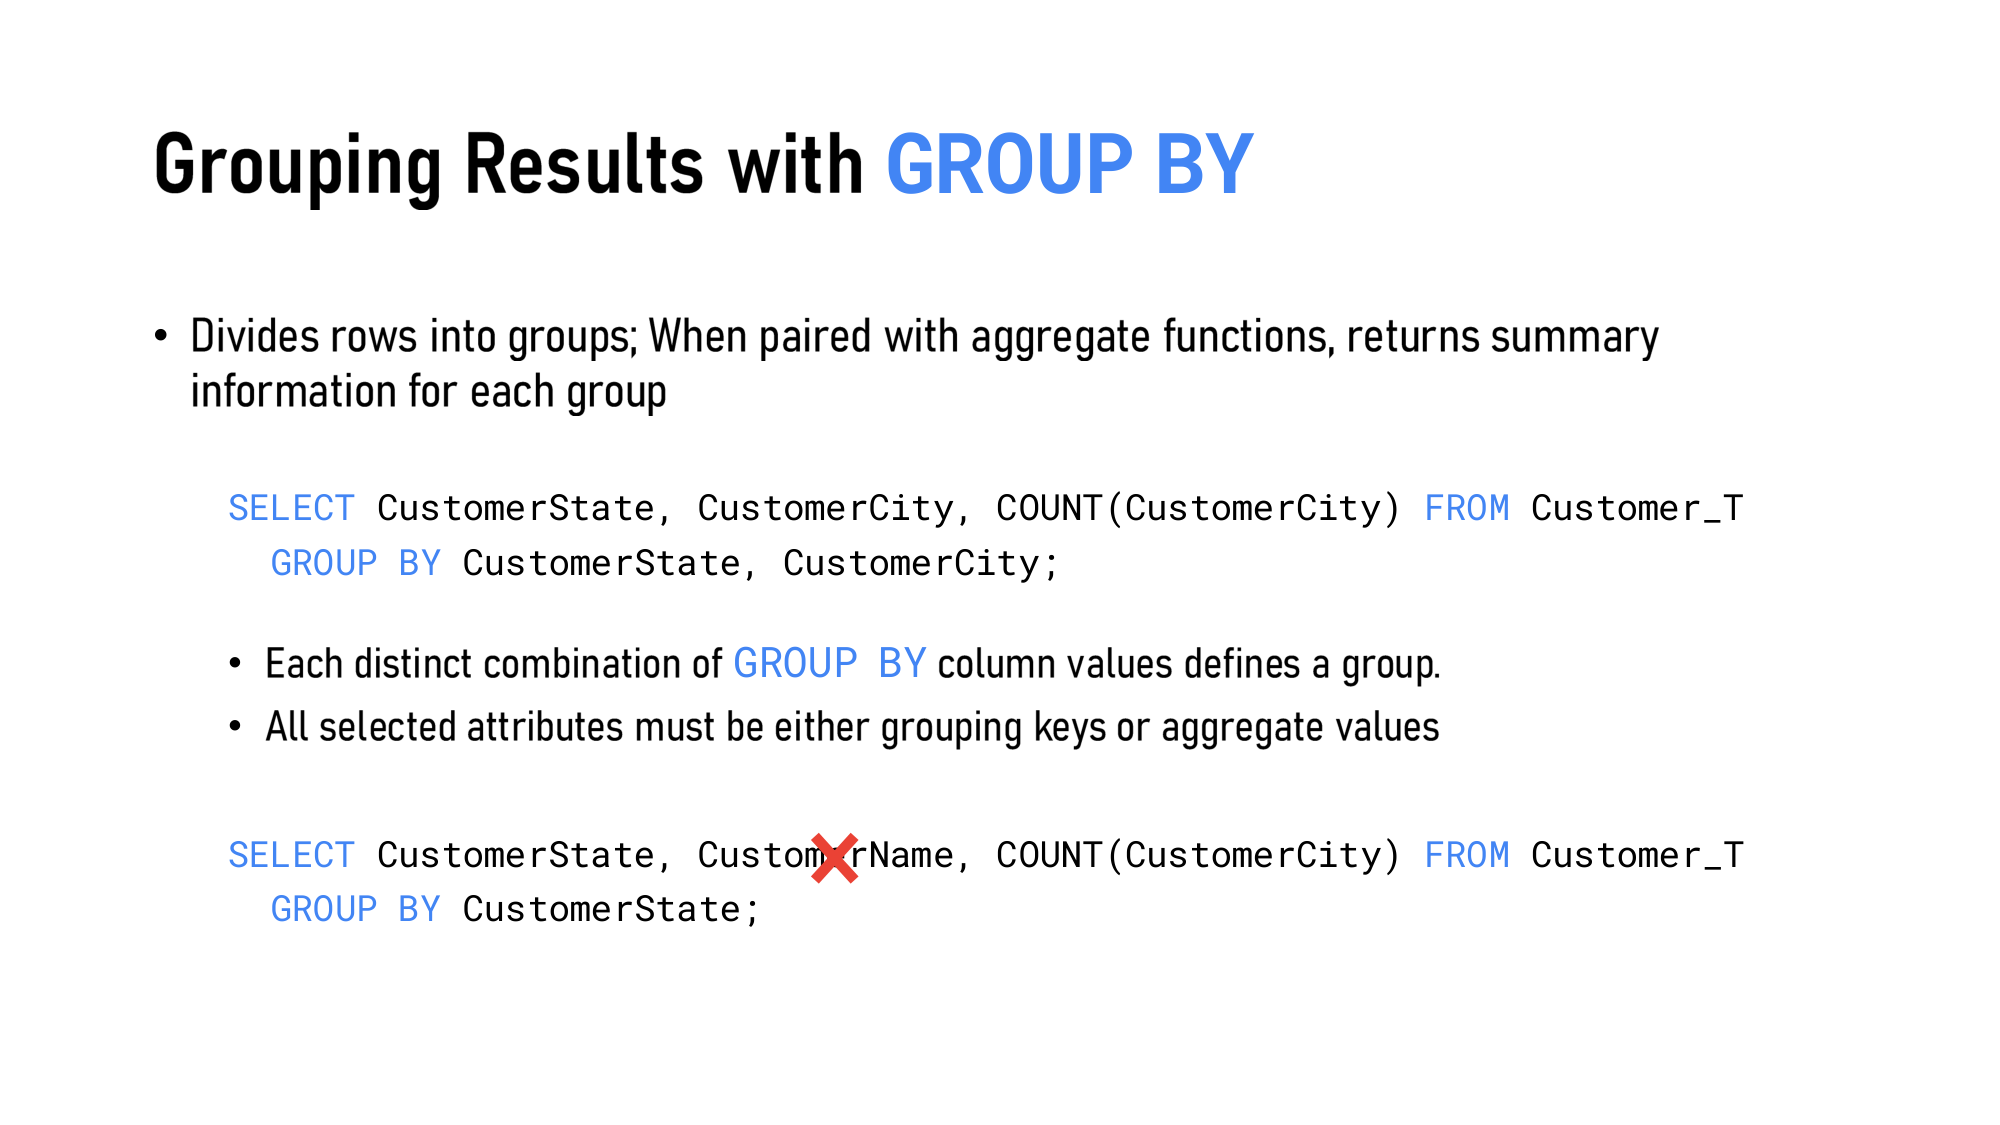
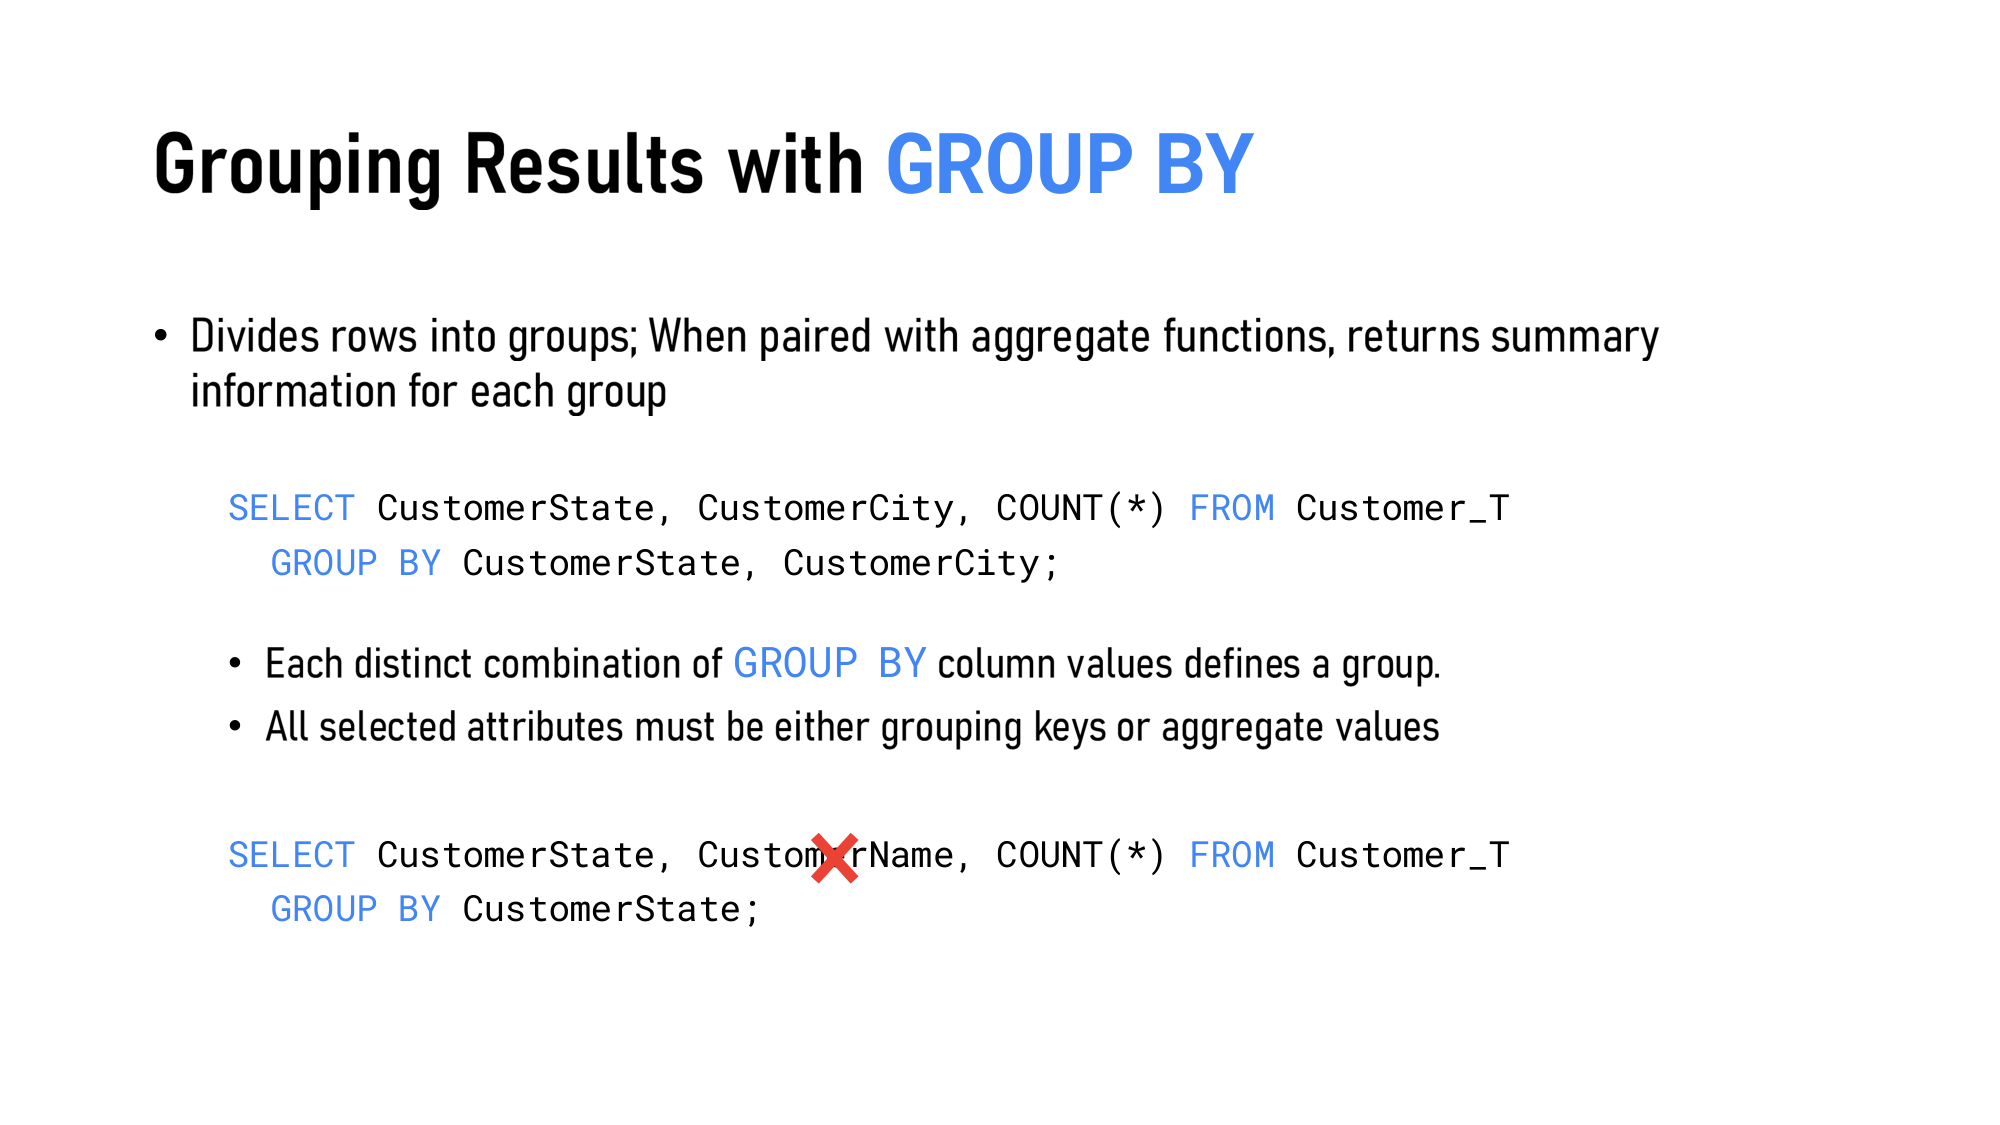
ISOM 5260 week 5: revise for updated lecture slides (Oct 3)
DCL reorganised (Users vs. Roles, REVOKE p.23), DATE literal, RANK,
COUNT(*) examples, single-row INSERT; refreshed slide images.

Changed region(s): [[0.558, 0.7467, 0.868, 0.7778], [0.558, 0.4356, 0.868, 0.4667]]

diff --git a/content/2026-fall-1/isom-5260/lectures/week-05/README.md b/content/2026-fall-1/isom-5260/lectures/week-05/README.md
@@ -22,6 +22,15 @@ tags: [SQL, DDL, DML, DCL, SELECT, GROUP BY, JOIN, Oracle]
 >
 > 课件使用的是 **Oracle** 语法（`VARCHAR2`、`SYSDATE`、表别名不能加 `AS`），和 lab 里的 SQL Developer 一致。
 
+> **📌 课件更新（10 月 3 日版）**
+>
+> 老师更新了 Lecture 5 的课件，本笔记已按新版修改：
+>
+> - **DCL 重排**：新增 p.22「Users vs. Roles」，REVOKE 移到 p.23，删掉了旧版的「Roles & Best Practices」页（见 5.2–5.4）
+> - p.29 日期比较改用 `DATE '2026-09-30'`；p.36 分析函数从 `TOP` 改成 `RANK`
+> - p.37 的规则改成更直接的「不能混用聚合和非聚合列」；p.41–42 的例子统一用 `COUNT(*)`
+> - p.52 不列列名的 INSERT 只保留一行 VALUES
+
 ---
 
 ## 0. 核心地图（先建立整体框架）
@@ -277,15 +286,51 @@ DROP TABLE Customer_T;                                                       -- 
 
 DCL 的目的：**controls who can do what on database objects**。
 
-### 5.2 GRANT 与 REVOKE（p.21–22）
+### 5.2 GRANT：授予权限（p.21）
 
 ```sql
-GRANT SELECT ON Customer_T TO sales_user;                         -- 给用户
-GRANT SELECT, INSERT, UPDATE ON Order_T TO order_clerk_role;      -- 给角色
-GRANT SELECT ON Customer_T TO manager WITH GRANT OPTION;          -- 允许他再转授给别人
+GRANT SELECT ON Customer_T TO sales_user;                         -- 给用户（user name）
+GRANT SELECT, INSERT, UPDATE ON Order_T TO order_clerk_role;      -- 给角色（role name）
+GRANT SELECT ON Customer_T TO manager WITH GRANT OPTION;          -- 允许 manager 再转授给别人
+```
 
-REVOKE SELECT ON Customer_T FROM sales_user;
-REVOKE INSERT, UPDATE ON Order_T FROM order_clerk_role;
+> **⚠ 踩坑提醒**
+>
+> p.21 的 Note：**`WITH GRANT OPTION` 不能用于把对象权限授给角色**。只能授给具体的用户。
+
+### 5.3 Users vs. Roles（p.22）
+
+![用户是账号，角色是一组权限的集合](images/page_22.png)
+
+*用户是账号，角色是一组权限的集合（Slide 22）*
+
+| 概念          | 课件原文                                                                              | 例子                            |
+| ----------- | --------------------------------------------------------------------------------- | ----------------------------- |
+| **User 用户** | A user is simply a **database account**                                           | sales\_user、manager、alice、bob |
+| **Role 角色** | A role is a **named collection of privileges** that can be assigned to many users | order\_clerk\_role            |
+
+**Best practice（课件标红）**：先建角色 → 把权限授给角色 → 再把角色分配给多个用户。
+
+```sql
+CREATE ROLE order_clerk_role;                                  -- ① 建一个空角色
+GRANT SELECT, INSERT, UPDATE ON Order_T TO order_clerk_role;   -- ② 权限给角色
+GRANT order_clerk_role TO alice, bob, carol;                   -- ③ 角色给人
+```
+
+> **💡 小白理解**
+>
+> 角色就像「岗位说明书」：店员这个岗位能查、能录、能改订单。新来一个店员，只要把角色给他，不用一条条授权；岗位要多一项权限，改角色一次，所有店员一起生效。
+
+### 5.4 REVOKE：收回权限（p.23）
+
+![REVOKE 的三种用法和两条规则](images/page_23.png)
+
+*REVOKE 的三种用法和两条规则（Slide 23）*
+
+```sql
+REVOKE SELECT ON Customer_T FROM sales_user;             -- 从用户收回
+REVOKE INSERT, UPDATE ON Order_T FROM order_clerk_role;  -- 从角色收回
+REVOKE order_clerk_role FROM alice;                      -- 从用户身上收回整个角色
 ```
 
 > **🎯 考点**
@@ -293,30 +338,20 @@ REVOKE INSERT, UPDATE ON Order_T FROM order_clerk_role;
 > 课件里三条要背的规则（全是选择题素材）：
 >
 > 1. **`WITH GRANT OPTION` 不能用于把对象权限授给角色**（p.21 Note）
-> 2. 如果权限是 `WITH GRANT OPTION` 授出的，**撤销它时，这个用户转授给别人的权限也会被连带撤销**（cascade，p.22）
-> 3. **从用户身上撤销一个角色 = 撤销这个角色带来的所有权限**（p.22）
+> 2. 如果权限是 `WITH GRANT OPTION` 授出的，**撤销它时，这个用户转授给别人的权限也会被连带撤销**（cascade，p.23）
+> 3. **从用户身上撤销一个角色 = 撤销这个角色带来的所有权限**（p.23）
 >
 > 注意介词：`GRANT … TO`，`REVOKE … FROM`。
 
-### 5.3 角色与最佳实践（p.23）
-
-```sql
-GRANT CREATE ROLE TO manager;                              -- 系统权限：允许 manager 建角色
-CREATE ROLE order_clerk_role;                              -- 建一个空角色
-GRANT SELECT, INSERT, UPDATE ON Order_T TO order_clerk_role;   -- 权限先给角色
-GRANT order_clerk_role TO alice, bob;                      -- 再把角色给人
-REVOKE order_clerk_role FROM alice;                        -- alice 换岗，收回角色
-```
-
-| 最佳实践                                                               | 中文            | 为什么                                 |
-| ------------------------------------------------------------------ | ------------- | ----------------------------------- |
-| Principle of **Least Privilege**                                   | 最小权限原则        | 只给完成工作所必需的权限，出事时损失最小                |
-| Prefer **roles** over granting privileges directly to users        | 优先通过角色授权      | 100 个店员共用一个角色：改一次角色，全员生效；有人离职只需收回角色 |
-| **Review** privileges regularly, revoke promptly when roles change | 定期审查，岗位变动及时收回 | 防止「权限蔓延」（换了三个岗位，手上攒了三份权限）           |
-
-> **💼 业务视角**
+> **➕ 课外补充：权限管理的原则**
 >
-> 角色（role）就是把「岗位」和「人」解耦：权限跟着**岗位**走，人只是被分配到岗位上。这和 ISOM 5070 里讲的访问控制（RBAC、least privilege、定期 access review）是同一套思路，只是这里落到了 SQL 语句上。
+> 新版课件删掉了旧版 p.23 的「Roles & Best Practices」页，下面这些不再是课件原文，了解即可：
+>
+> - **Principle of Least Privilege 最小权限原则**：只给完成工作所必需的权限。
+> - **定期审查权限**，岗位变动时及时收回，防止换了几个岗位后手上攒了几份权限。
+> - 建角色本身也需要系统权限：`GRANT CREATE ROLE TO manager;`
+>
+> 这和 ISOM 5070 讲的访问控制（RBAC、least privilege、access review）是同一套思路。
 
 下面这个实验按课件的语句一步步执行，看权限矩阵怎么变。建议按「按课件顺序走下一步」走一遍，特别留意 **第 4 步（sales\_user 没有 GRANT OPTION 却想转授）**、**第 7 步（给角色加 WITH GRANT OPTION）** 和 **第 9 步（撤销 manager 时 bob 被连带撤销）**：
 
@@ -331,22 +366,23 @@ REVOKE order_clerk_role FROM alice;                        -- alice 换岗，收
 | 5  | owner       | `CREATE ROLE order_clerk_role;`                                  | ✓ | 建好一个空角色：它本身还没有任何权限，要先把权限授给角色，再把角色授给用户。                                             |
 | 6  | owner       | `GRANT SELECT, INSERT, UPDATE ON Order_T TO order_clerk_role;`   | ✓ | 表的所有者把 SELECT, INSERT, UPDATE ON Order\_T 授给 order\_clerk\_role。                   |
 | 7  | owner       | `GRANT SELECT ON Order_T TO order_clerk_role WITH GRANT OPTION;` | ✗ | ORA-01926：不能把 WITH GRANT OPTION 授给角色（p.21 的 Note）。                                 |
-| 8  | owner       | `GRANT order_clerk_role TO alice, bob;`                          | ✓ | alice、bob 获得了角色里的全部权限——以后改角色的权限，所有成员一起变。                                           |
+| 8  | owner       | `GRANT order_clerk_role TO alice, bob, carol;`                   | ✓ | alice、bob、carol 获得了角色里的全部权限——以后改角色的权限，所有成员一起变。                                     |
 | 9  | owner       | `REVOKE SELECT ON Customer_T FROM manager;`                      | ✓ | 撤销 manager 的 SELECT ON Customer\_T。连锁撤销：bob 的 SELECT ON Customer\_T（由 manager 转授）。 |
 | 10 | owner       | `REVOKE order_clerk_role FROM alice;`                            | ✓ | alice 失去角色带来的所有权限（直接授给该用户的权限不受影响）。                                                 |
 | 11 | owner       | `REVOKE INSERT, UPDATE ON Order_T FROM order_clerk_role;`        | ✓ | 撤销 order\_clerk\_role 的 INSERT, UPDATE ON Order\_T。                                |
 
 **最终权限矩阵**
 
-| 用户 / 角色                   | SELECT ON Customer\_T | SELECT ON Order\_T | INSERT ON Order\_T | UPDATE ON Order\_T |
-| ------------------------- | --------------------- | ------------------ | ------------------ | ------------------ |
-| manager                   | —                     | —                  | —                  | —                  |
-| sales\_user               | ✓                     | —                  | —                  | —                  |
-| alice                     | —                     | —                  | —                  | —                  |
-| bob（+ order\_clerk\_role） | —                     | ✓（经由角色）            | —                  | —                  |
-| order\_clerk\_role        | —                     | ✓                  | —                  | —                  |
+| 用户 / 角色                     | SELECT ON Customer\_T | SELECT ON Order\_T | INSERT ON Order\_T | UPDATE ON Order\_T |
+| --------------------------- | --------------------- | ------------------ | ------------------ | ------------------ |
+| manager                     | —                     | —                  | —                  | —                  |
+| sales\_user                 | ✓                     | —                  | —                  | —                  |
+| alice                       | —                     | —                  | —                  | —                  |
+| bob（+ order\_clerk\_role）   | —                     | ✓（经由角色）            | —                  | —                  |
+| carol（+ order\_clerk\_role） | —                     | ✓（经由角色）            | —                  | —                  |
+| order\_clerk\_role          | —                     | ✓                  | —                  | —                  |
 
-### 5.4 🟢 查权限的数据字典视图（p.24）
+### 5.5 🟢 查权限的数据字典视图（p.24）
 
 | 视图               | 权限类别   | 范围   | 显示什么                   |
 | ---------------- | ------ | ---- | ---------------------- |
@@ -404,7 +440,7 @@ SELECT ProductDescription, ProductStandardPrice
 | `>=`、`<=`   | 大于等于、小于等于 |
 
 - 数字按大小比，**文本按字母顺序比**（一定用**单引号** `'Cherry'`），日期按先后比。
-- `WHERE OrderDate > '24-OCT-2018'`：Oracle 会把这个字符串按默认日期格式转换成日期再比较。
+- `WHERE OrderDate > DATE '2026-09-30'`（p.29）：`DATE 'YYYY-MM-DD'` 是标准的**日期字面量**，明确告诉 Oracle「这是一个日期」，按先后比较，不依赖数据库的默认日期格式。
 
 ### 6.4 🔴 LIKE 与通配符（p.30）
 
@@ -467,16 +503,22 @@ SELECT UPPER('product: ' || ProductID), ProductStandardPrice FROM Product_T;
 -- || 是 Oracle 的字符串拼接：'product: ' || 1 → 'product: 1'，UPPER 再变成 'PRODUCT: 1'
 ```
 
-| 类型      | 例子                                      |
-| ------- | --------------------------------------- |
-| 数学 / 聚合 | `MIN`、`MAX`、`COUNT`、`SUM`、`AVG`、`ROUND` |
-| 字符串     | `LOWER`（转小写）、`UPPER`（转大写）               |
-| 日期      | `NEXT_DAY`（下一个星期几）、`ADD_MONTHS`（加减若干个月） |
-| 分析      | `TOP`（前 n 名，例如年销售额前 5 的客户）              |
+| 类型      | 例子                                       |
+| ------- | ---------------------------------------- |
+| 数学 / 聚合 | `MIN`、`MAX`、`COUNT`、`SUM`、`AVG`、`ROUND`  |
+| 字符串     | `LOWER`（转小写）、`UPPER`（转大写）                |
+| 日期      | `NEXT_DAY`（下一个星期几）、`ADD_MONTHS`（加减若干个月）  |
+| 分析      | `RANK`（按 `OVER()` 里的 `ORDER BY` 给每一行排名次） |
 
-> **➕ 课外补充**
+> **➕ 课外补充：RANK 怎么用**
 >
-> 课件把 `TOP` 列为分析函数，但 `TOP n` 其实是 SQL Server 的写法；Oracle 12c 以后用 `FETCH FIRST 5 ROWS ONLY`，旧版用 `ROWNUM`。概念一样：取前 n 名。
+> ```sql
+> SELECT ProductDescription, ProductStandardPrice,
+>        RANK() OVER (ORDER BY ProductStandardPrice DESC) AS PriceRank
+>   FROM Product_T;
+> ```
+>
+> 结果是**每一行都保留**，多出一列名次：Dining Table 800 排 1，8-Drawer Desk 750 排 2……价格相同的并列同一名次，下一名会跳号（1, 2, 2, 4）。这是它和聚合函数的区别：聚合函数把多行压成一行，`RANK` 不减少行数。（旧版课件这一格写的是 `TOP`，新版改成了 `RANK`。）
 
 ### 6.8 🔴 聚合函数（Aggregate Functions，p.37–38）
 
@@ -491,7 +533,9 @@ SELECT ProductID, COUNT(*) FROM Product_T;  -- ❌ 报错
 
 > **🎯 考点：聚合函数和普通列不能混用**
 >
-> **SELECT 列表里不能同时出现聚合函数和没有聚合的普通列——除非那些普通列出现在 GROUP BY 里。**
+> **A SELECT list cannot mix aggregate functions and non-aggregated columns.**（p.37）SELECT 列表里不能同时出现聚合函数和没有聚合的普通列。
+>
+> 例外在 p.41：普通列如果是 **GROUP BY 的分组键**，就可以和聚合函数一起出现（见 6.11）。
 >
 > `SELECT ProductID, COUNT(*) FROM Product_T;` 为什么错？COUNT(\*) 把 8 行压成 1 个数，ProductID 却有 8 个值——结果只有一行，放哪个 ProductID？Oracle 报 `ORA-00937: not a single-group group function`。
 
@@ -535,15 +579,15 @@ SELECT CustomerName, CustomerState FROM Customer_T
 *GROUP BY：选出来的列必须是分组键或聚合值（课件用红叉标出了错误写法）（Slide 41）*
 
 ```sql
-SELECT CustomerState, CustomerCity, COUNT(CustomerCity) FROM Customer_T
+SELECT CustomerState, CustomerCity, COUNT(*) FROM Customer_T
  GROUP BY CustomerState, CustomerCity;            -- ✅ 每个 (州, 城市) 组合一组
 
-SELECT CustomerState, CustomerName, COUNT(CustomerCity) FROM Customer_T
+SELECT CustomerState, CustomerName, COUNT(*) FROM Customer_T
  GROUP BY CustomerState;                          -- ❌ CustomerName 既不是分组键也不是聚合值
 
-SELECT CustomerState, COUNT(CustomerState) FROM Customer_T
+SELECT CustomerState, COUNT(*) FROM Customer_T
  GROUP BY CustomerState
-HAVING COUNT(CustomerState) > 1;                  -- ✅ 只留客户数 > 1 的州：CA 2、FL 3、NJ 2
+HAVING COUNT(*) > 1;                              -- ✅ 只留客户数 > 1 的州：CA 2、FL 3、NJ 2
 ```
 
 | 规则                                                                               | 解释                                    |
@@ -917,15 +961,14 @@ VALUES (1, 175, 'End Table');
 
 -- 不列列名：必须按表定义的顺序给出所有列
 INSERT INTO Product_T VALUES
-  (1, 'End Table', 'Cherry', 175, 8),
-  (2, 'Coffee Table', 'Natural Ash', 200.00, 2);
+  (1, 'End Table', 'Cherry', 175, 8);
 
 -- 用查询结果插入：目标表和源表的列要兼容且顺序一致
 INSERT INTO FLCustomer_T
   SELECT * FROM Customer_T WHERE CustomerState = 'FL';
 
-DELETE FROM Customer_T WHERE CustomerState = 'FL';   -- 删符合条件的行
 DELETE FROM Customer_T;                              -- 删所有行（表还在！）
+DELETE FROM Customer_T WHERE CustomerState = 'FL';   -- 删符合条件的行
 
 UPDATE Product_T
    SET ProductStandardPrice = 775
@@ -937,7 +980,6 @@ UPDATE Product_T
 > 1. **`UPDATE` / `DELETE` 忘写 `WHERE` = 改 / 删整张表**。这是现实中最常见的事故之一。
 > 2. `INSERT` 没列出的列：有 `DEFAULT` 就用默认值，否则是 NULL；如果那列是 `NOT NULL` 又没有默认值，就报错。
 > 3. 插入 / 删除受外键约束：往 Order\_T 插一张 CustomerID = 99 的订单（客户不存在）会违反 referential integrity；删除一个还有订单的客户也会被拒绝。
-> 4. 一条 `INSERT … VALUES (…), (…)` 插多行是较新的语法（Oracle 23ai 起支持）；旧版 Oracle 要写多条 INSERT 或用 `INSERT ALL`。
 
 > **➕ 课外补充：DELETE vs TRUNCATE vs DROP**
 >
@@ -1119,7 +1161,7 @@ UPDATE Product_T
 
 > **答案：B**
 >
-> 聚合函数把 8 行压成 1 行，ProductID 却有 8 个值。SELECT 列表里不能混用聚合和非聚合列，除非非聚合列在 GROUP BY 里（p.37）。
+> 聚合函数把 8 行压成 1 行，ProductID 却有 8 个值。SELECT 列表里不能混用聚合和非聚合列（p.37）；要按 ProductID 分别计数，就得加 GROUP BY ProductID（p.41）。
 
 **13. SELECT ProductStandardPrice \* 1.1 AS NewPrice FROM Product\_T WHERE NewPrice > 300; What happens?**
 
